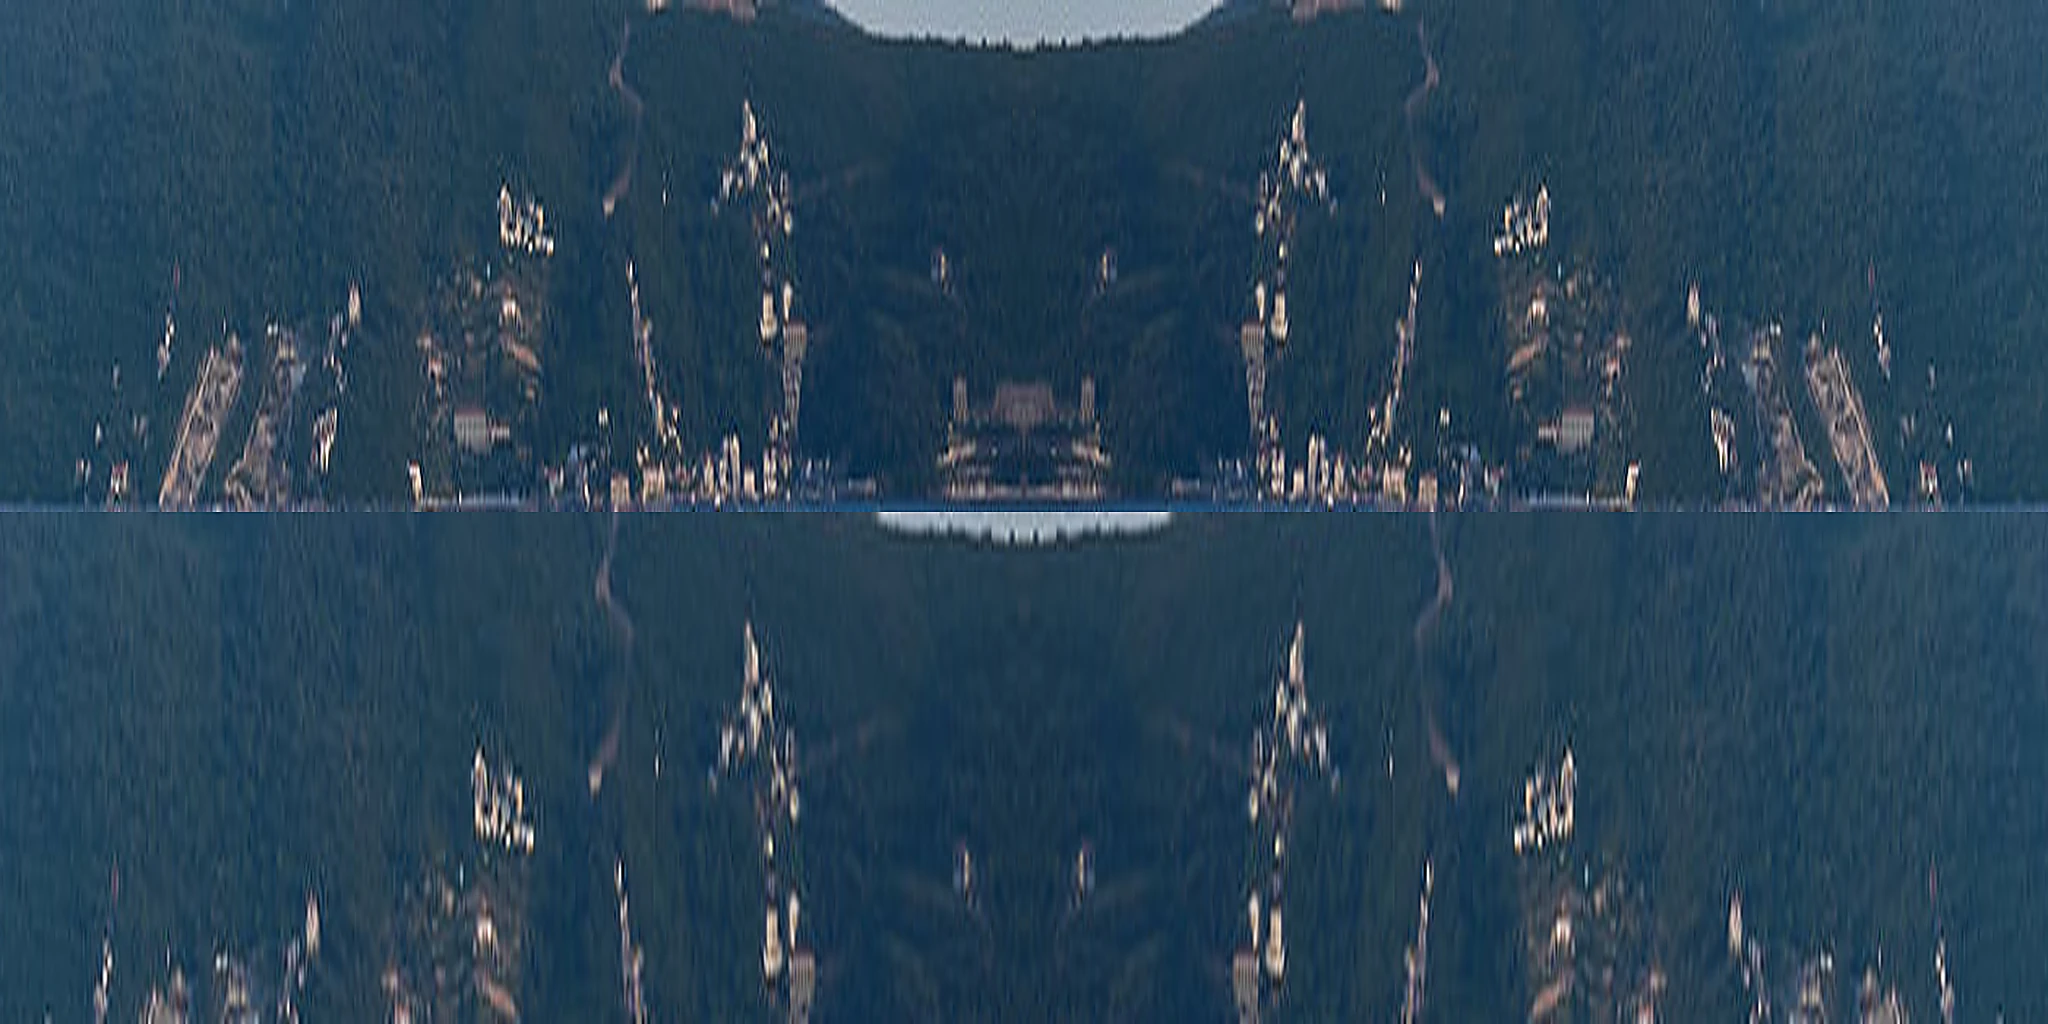
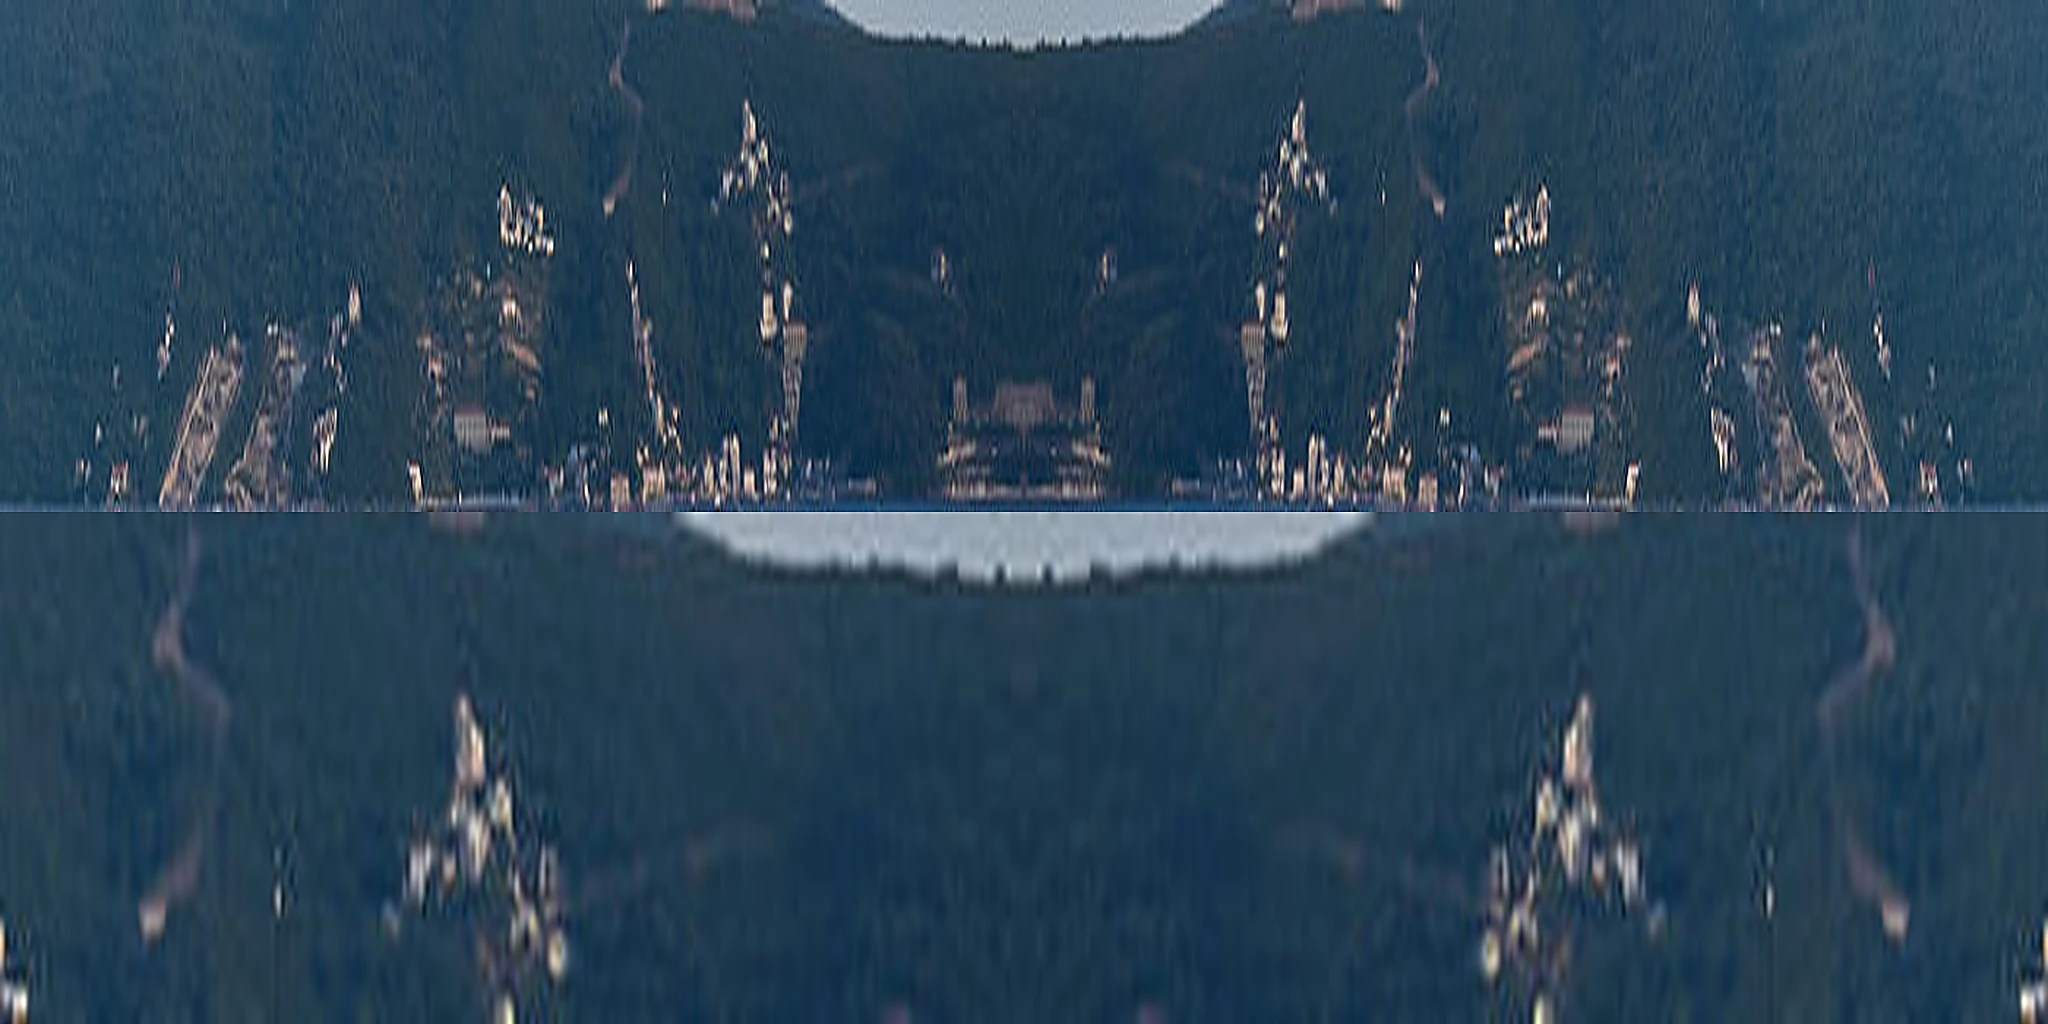
Sharpen atmosphere on hi-DPI displays
Hi-DPI screens rendered the scene at half resolution and CSS-upscaled it,
which read as overall blur — most visibly on the mountain band. Raise the
render scale to 0.66 (comparable pixel count to a 1440p low-DPI screen at
full scale). Also calm the far-layer terrain warp and cut its atlas band
from uniform forest so the stretched material stops smearing into wavy
streaks on the middle range.

Claude-Session: https://claude.ai/code/session_01DD4Z6ChHy2Ko9BiueffdTn

diff --git a/assets/js/atmosphere.js b/assets/js/atmosphere.js
@@ -229,7 +229,9 @@
       float sampleX = mix(farX, nearX, depth);
       float farY = mix(0.02, 0.48, pow(height, 0.92));
       float nearY = mix(0.52, 0.98, pow(height, 0.92));
-      float terrainWarp = (fbm(vec2(x * 4.8 + depth * 7.3, height * 5.2 + depth * 2.1)) - 0.5) * mix(0.046, 0.035, depth);
+      // Keep the warp gentle on the far layer: its stretched material turns
+      // strong displacement into wavy melted smears.
+      float terrainWarp = (fbm(vec2(x * 4.8 + depth * 7.3, height * 5.2 + depth * 2.1)) - 0.5) * mix(0.022, 0.034, depth);
       terrainWarp += sin(height * 8.0 + x * 4.5 + depth * 2.4) * 0.007;
       float slopeProjection = (height - 0.5) * mix(0.18, 0.12, depth);
       sampleX = clamp(sampleX + slopeProjection + terrainWarp * (0.42 + height * 0.58), 0.015, 0.985);
@@ -1249,8 +1251,11 @@
   function resize() {
     var width = canvas.clientWidth || window.innerWidth;
     var height = canvas.clientHeight || window.innerHeight;
+    // Half-resolution on hi-DPI reads as visible blur on the mountain band;
+    // 0.66 lands near the pixel count of a 1440p low-DPI screen at full
+    // scale, which already ships fine.
     var lowDpi = (window.devicePixelRatio || 1) < 1.5;
-    var scale = lowDpi ? 1.0 : 0.5;
+    var scale = lowDpi ? 1.0 : 0.66;
     var pixelRatio = window.devicePixelRatio || 1;
     var renderWidth = Math.max(1, Math.round(width * pixelRatio * scale));
     var renderHeight = Math.max(1, Math.round(height * pixelRatio * scale));

diff --git a/layouts/_default/baseof.html b/layouts/_default/baseof.html
@@ -60,7 +60,7 @@
   </head>
   <body class="builder-index page-{{ if .IsHome }}home{{ else }}inner{{ end }} kind-{{ .Kind }}{{ with .Section }} section-{{ . }}{{ end }}{{ with .File }} view-{{ .BaseFileName | urlize }}{{ end }}{{ with .Params.hero_flow }} has-system-hero{{ end }}{{ if and .IsSection (eq .Section "projects") }} has-work-atlas{{ end }}"{{ if .Site.Params.enableTwemoji }} onload='twemoji.parse(document.body)'{{ end }}>
     <a class="skip-link" href="#main-content">Skip to content</a>
-    <canvas class="ambient-canvas" data-atmosphere data-skyline="{{ "/images/herceg-novi-skyline.png" | relURL }}?v=2" data-day-scene="{{ "/images/herceg-novi-day.webp" | relURL }}" data-mountain-scene="{{ "/images/herceg-novi-mountains.webp" | relURL }}?v=9" aria-hidden="true"></canvas>
+    <canvas class="ambient-canvas" data-atmosphere data-skyline="{{ "/images/herceg-novi-skyline.png" | relURL }}?v=2" data-day-scene="{{ "/images/herceg-novi-day.webp" | relURL }}" data-mountain-scene="{{ "/images/herceg-novi-mountains.webp" | relURL }}?v=11" aria-hidden="true"></canvas>
     <main class="site-shell">
       {{ partial "header.html" . }}
       <div class="content" id="main-content">